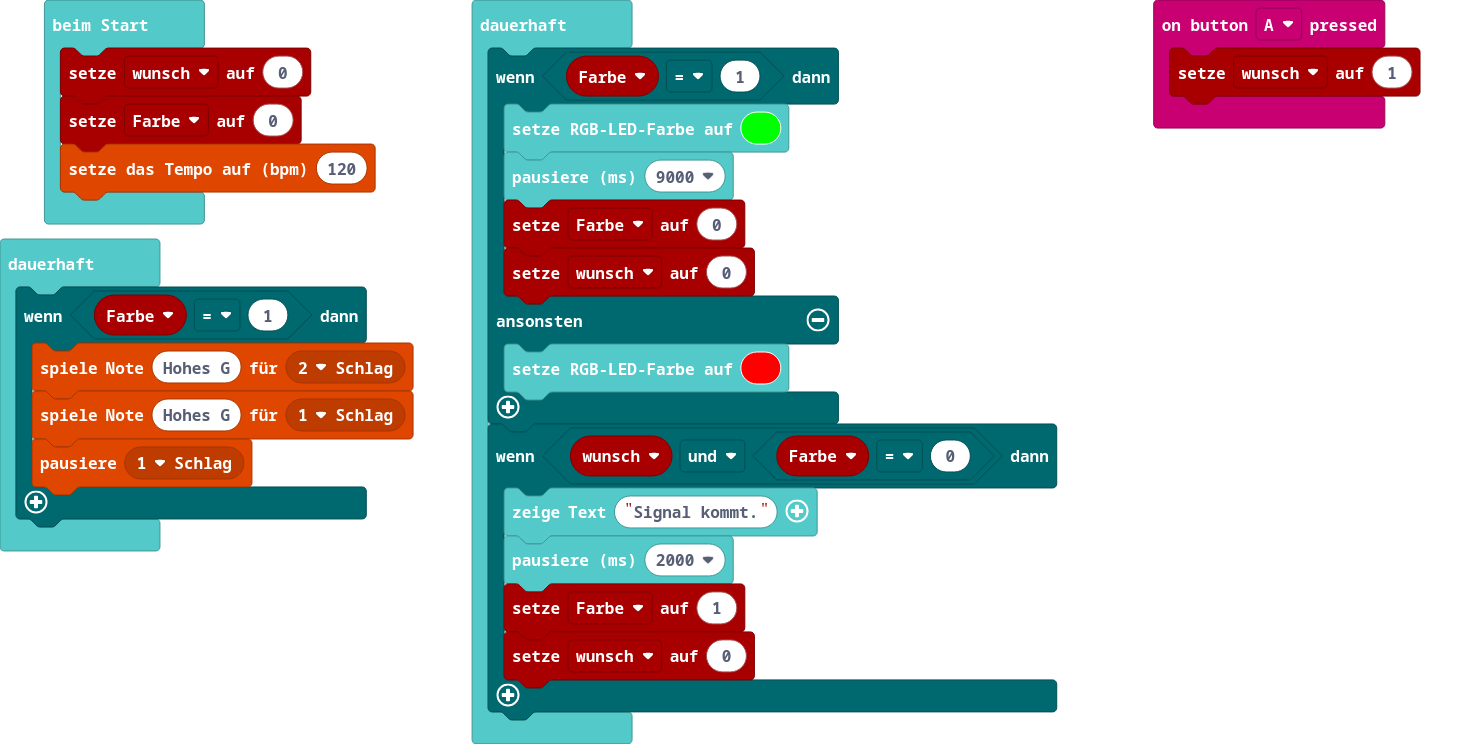
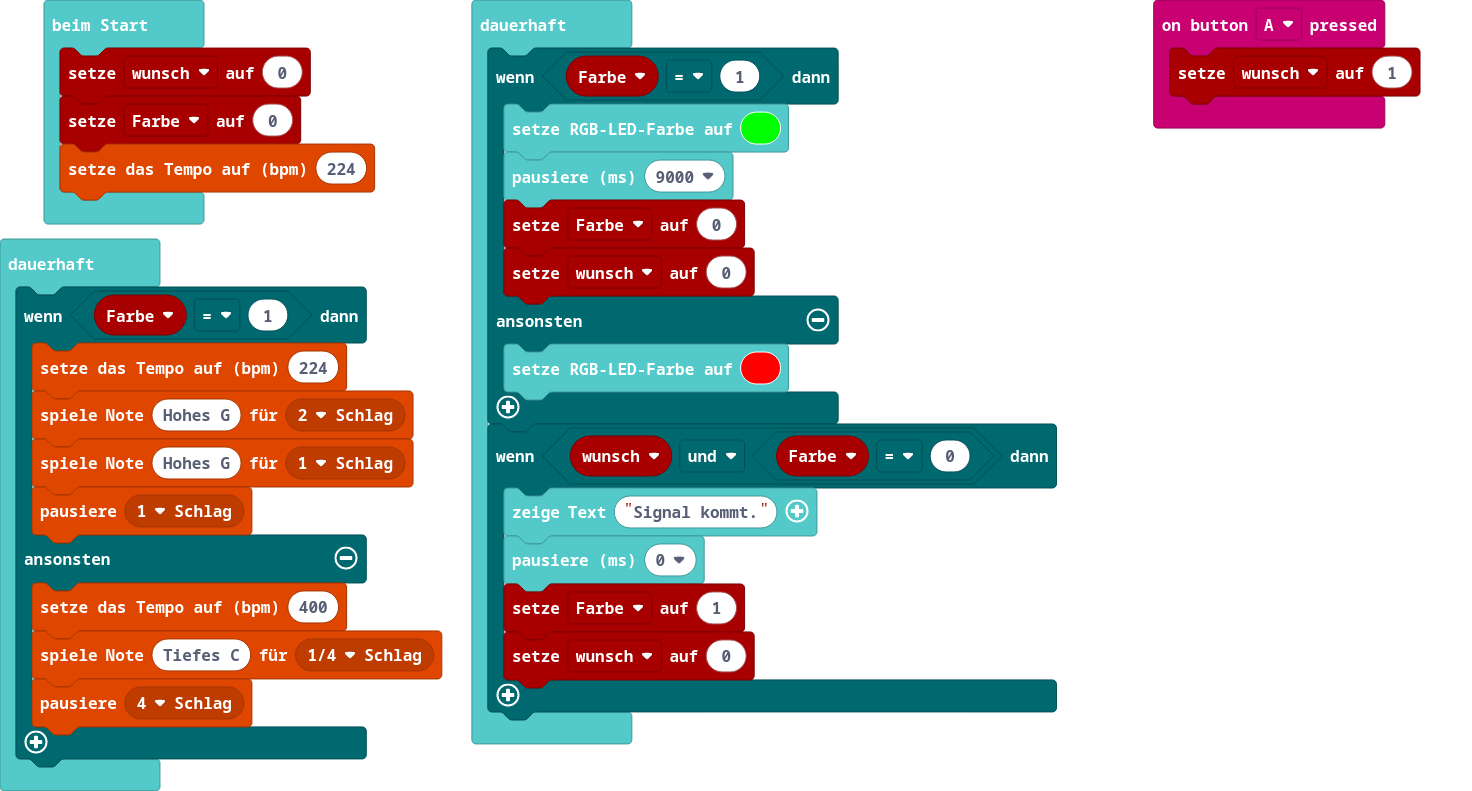
Aktualisiere main.blocks, main.ts

Changed region(s): [[0.3125, 0.0309, 0.7188, 1.0], [0.0, 0.0309, 0.3125, 1.0], [0.7812, 0.0309, 0.9688, 0.1855]]

diff --git a/main.ts b/main.ts
@@ -4,7 +4,7 @@ input.onButtonPressed(Button.A, function () {
 let wunsch = 0
 wunsch = 0
 let Farbe = 0
-music.setTempo(120)
+music.setTempo(224)
 basic.forever(function () {
     if (Farbe == 1) {
         basic.setLedColor(0x00ff00)
@@ -16,15 +16,20 @@ basic.forever(function () {
     }
     if (wunsch && Farbe == 0) {
         basic.showString("Signal kommt.")
-        basic.pause(2000)
+        basic.pause(0)
         Farbe = 1
         wunsch = 0
     }
 })
 basic.forever(function () {
     if (Farbe == 1) {
+        music.setTempo(224)
         music.playTone(784, music.beat(BeatFraction.Double))
         music.playTone(784, music.beat(BeatFraction.Whole))
         music.rest(music.beat(BeatFraction.Whole))
+    } else {
+        music.setTempo(400)
+        music.playTone(131, music.beat(BeatFraction.Quarter))
+        music.rest(music.beat(BeatFraction.Breve))
     }
 })
